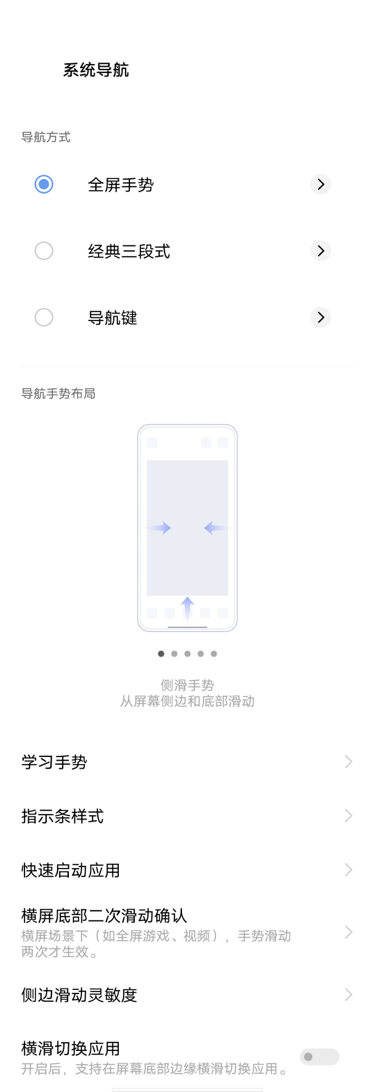
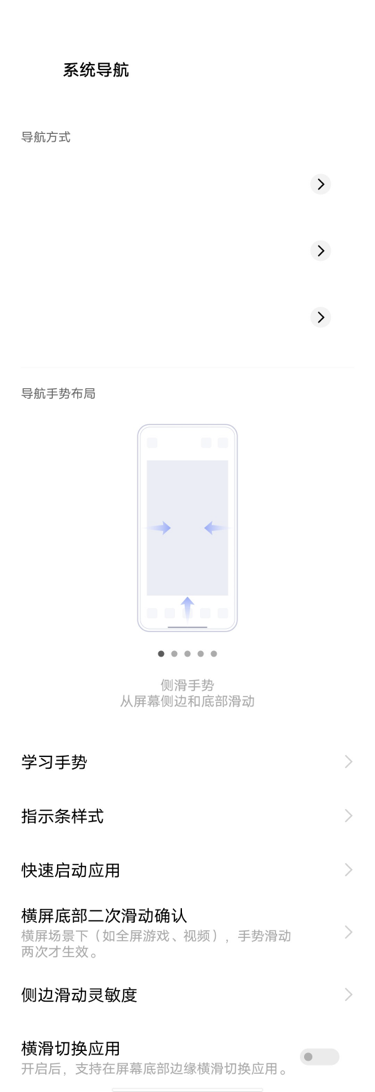
fix single choice

diff --git a/src/ChooseFold/ChooseSingleChoice.js b/src/ChooseFold/ChooseSingleChoice.js
@@ -3,6 +3,7 @@ import NavBarPage from "../Component/NavBarPage";
 import { Radio, Space } from "antd";
 import Bg from "../Component/Bg";
 import ChooseSingleChoiceBg from "../Img/ChooseSingleChoiceBg.png";
+import "../Component/Component.css";
 import "antd/dist/antd.css";
 
 const ChooseSingleChoice = () => {
@@ -28,25 +29,7 @@ const ChooseSingleChoice = () => {
         }}
       >
         <div
-          className="Choose"
-          style={{
-            width: 300,
-            height: 120,
-            position: "absolute",
-            top: 300,
-            opacity: 1,
-            zIndex: "2",
-          }}
-        >
-          <Radio.Group onChange={onChange} value={value}>
-            <Space direction="vertical">
-              <Radio value={1}>全屏手势</Radio>
-              <Radio value={2}>经典三段式</Radio>
-              <Radio value={3}>导航键</Radio>
-            </Space>
-          </Radio.Group>
-        </div>
-        <div
+          className="Mask"
           style={{
             width: 375,
             height: 812,
@@ -68,6 +51,47 @@ const ChooseSingleChoice = () => {
               zIndex: "1",
             }}
           />
+          <div
+            className="CheckRadio"
+            style={{
+              position: "absolute",
+              top: 172,
+              left: 36,
+              zIndex: 1,
+            }}
+          >
+            <Radio.Group onChange={onChange} value={value}>
+              <Space direction="vertical">
+                <Radio
+                  value={1}
+                  style={{
+                    fontSize: 18,
+                    fontWeight: "bold",
+                  }}
+                >
+                  全屏手势
+                </Radio>
+                <Radio
+                  value={2}
+                  style={{
+                    fontSize: 18,
+                    fontWeight: "bold",
+                  }}
+                >
+                  经典三段式
+                </Radio>
+                <Radio
+                  value={3}
+                  style={{
+                    fontSize: 18,
+                    fontWeight: "bold",
+                  }}
+                >
+                  导航键
+                </Radio>
+              </Space>
+            </Radio.Group>
+          </div>
         </div>
       </div>
       <Bg />

diff --git a/src/Component/Component.css b/src/Component/Component.css
@@ -84,3 +84,9 @@ p.MuiTypography-root.MuiTypography-body2.css-r40f8v-MuiTypography-root {
 .ant-checkbox {
   margin-bottom: 60px !important;
 }
+.ant-space.ant-space-vertical {
+  gap: 38px !important;
+}
+span.ant-radio + * {
+  padding-left: 32px !important;
+}
